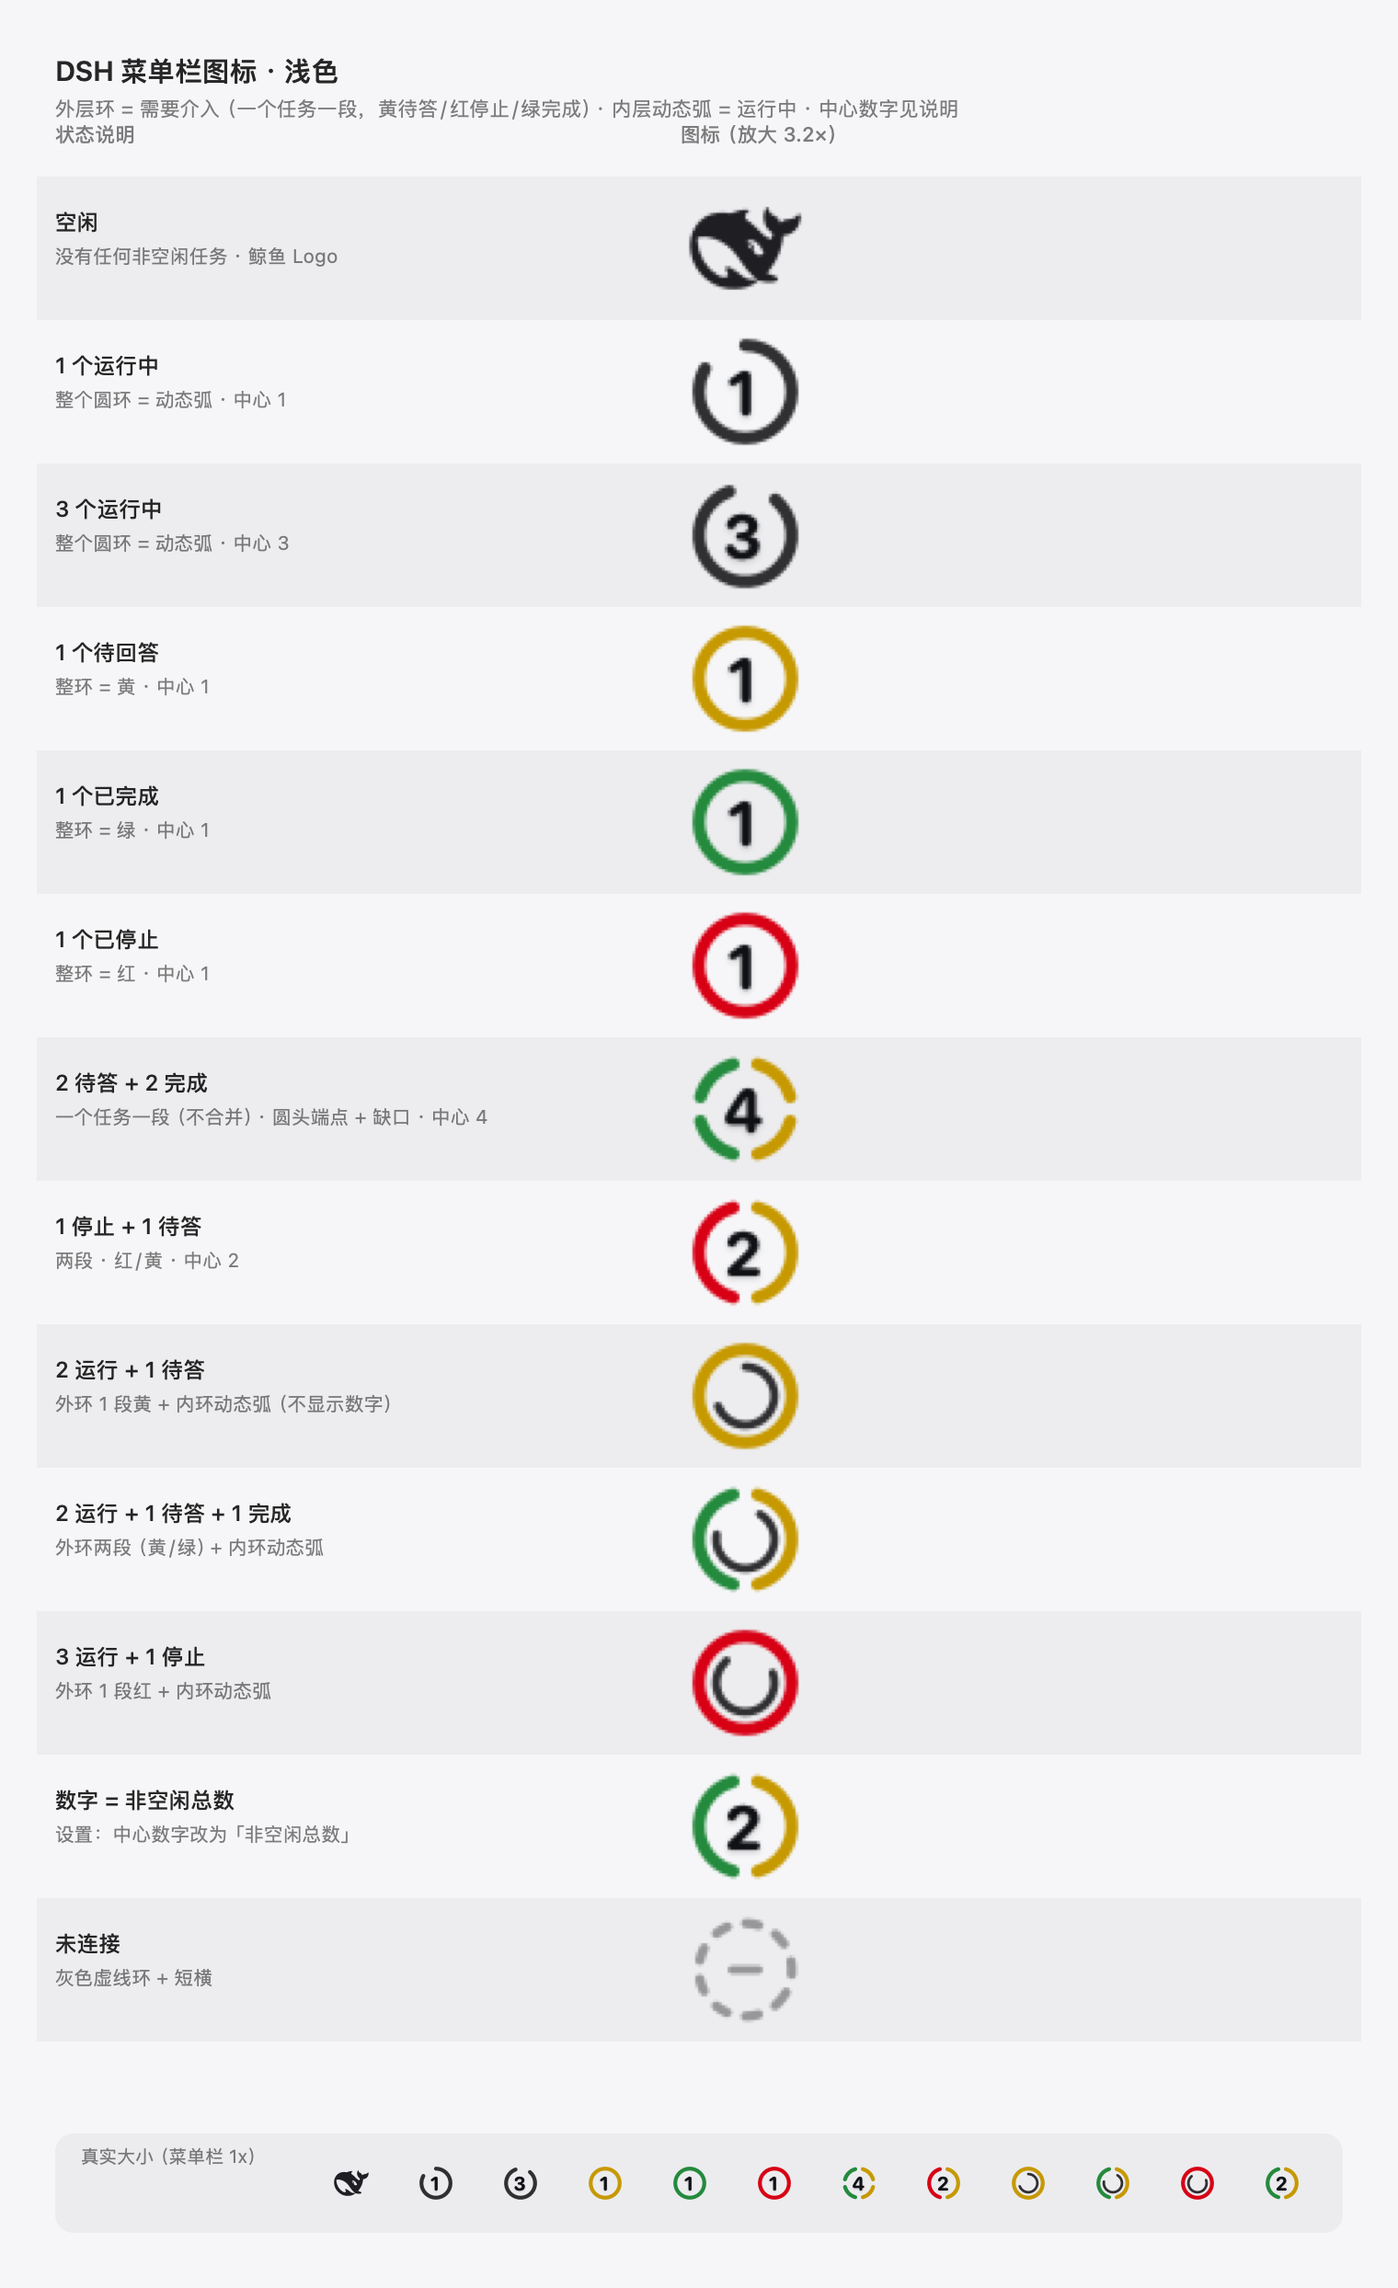
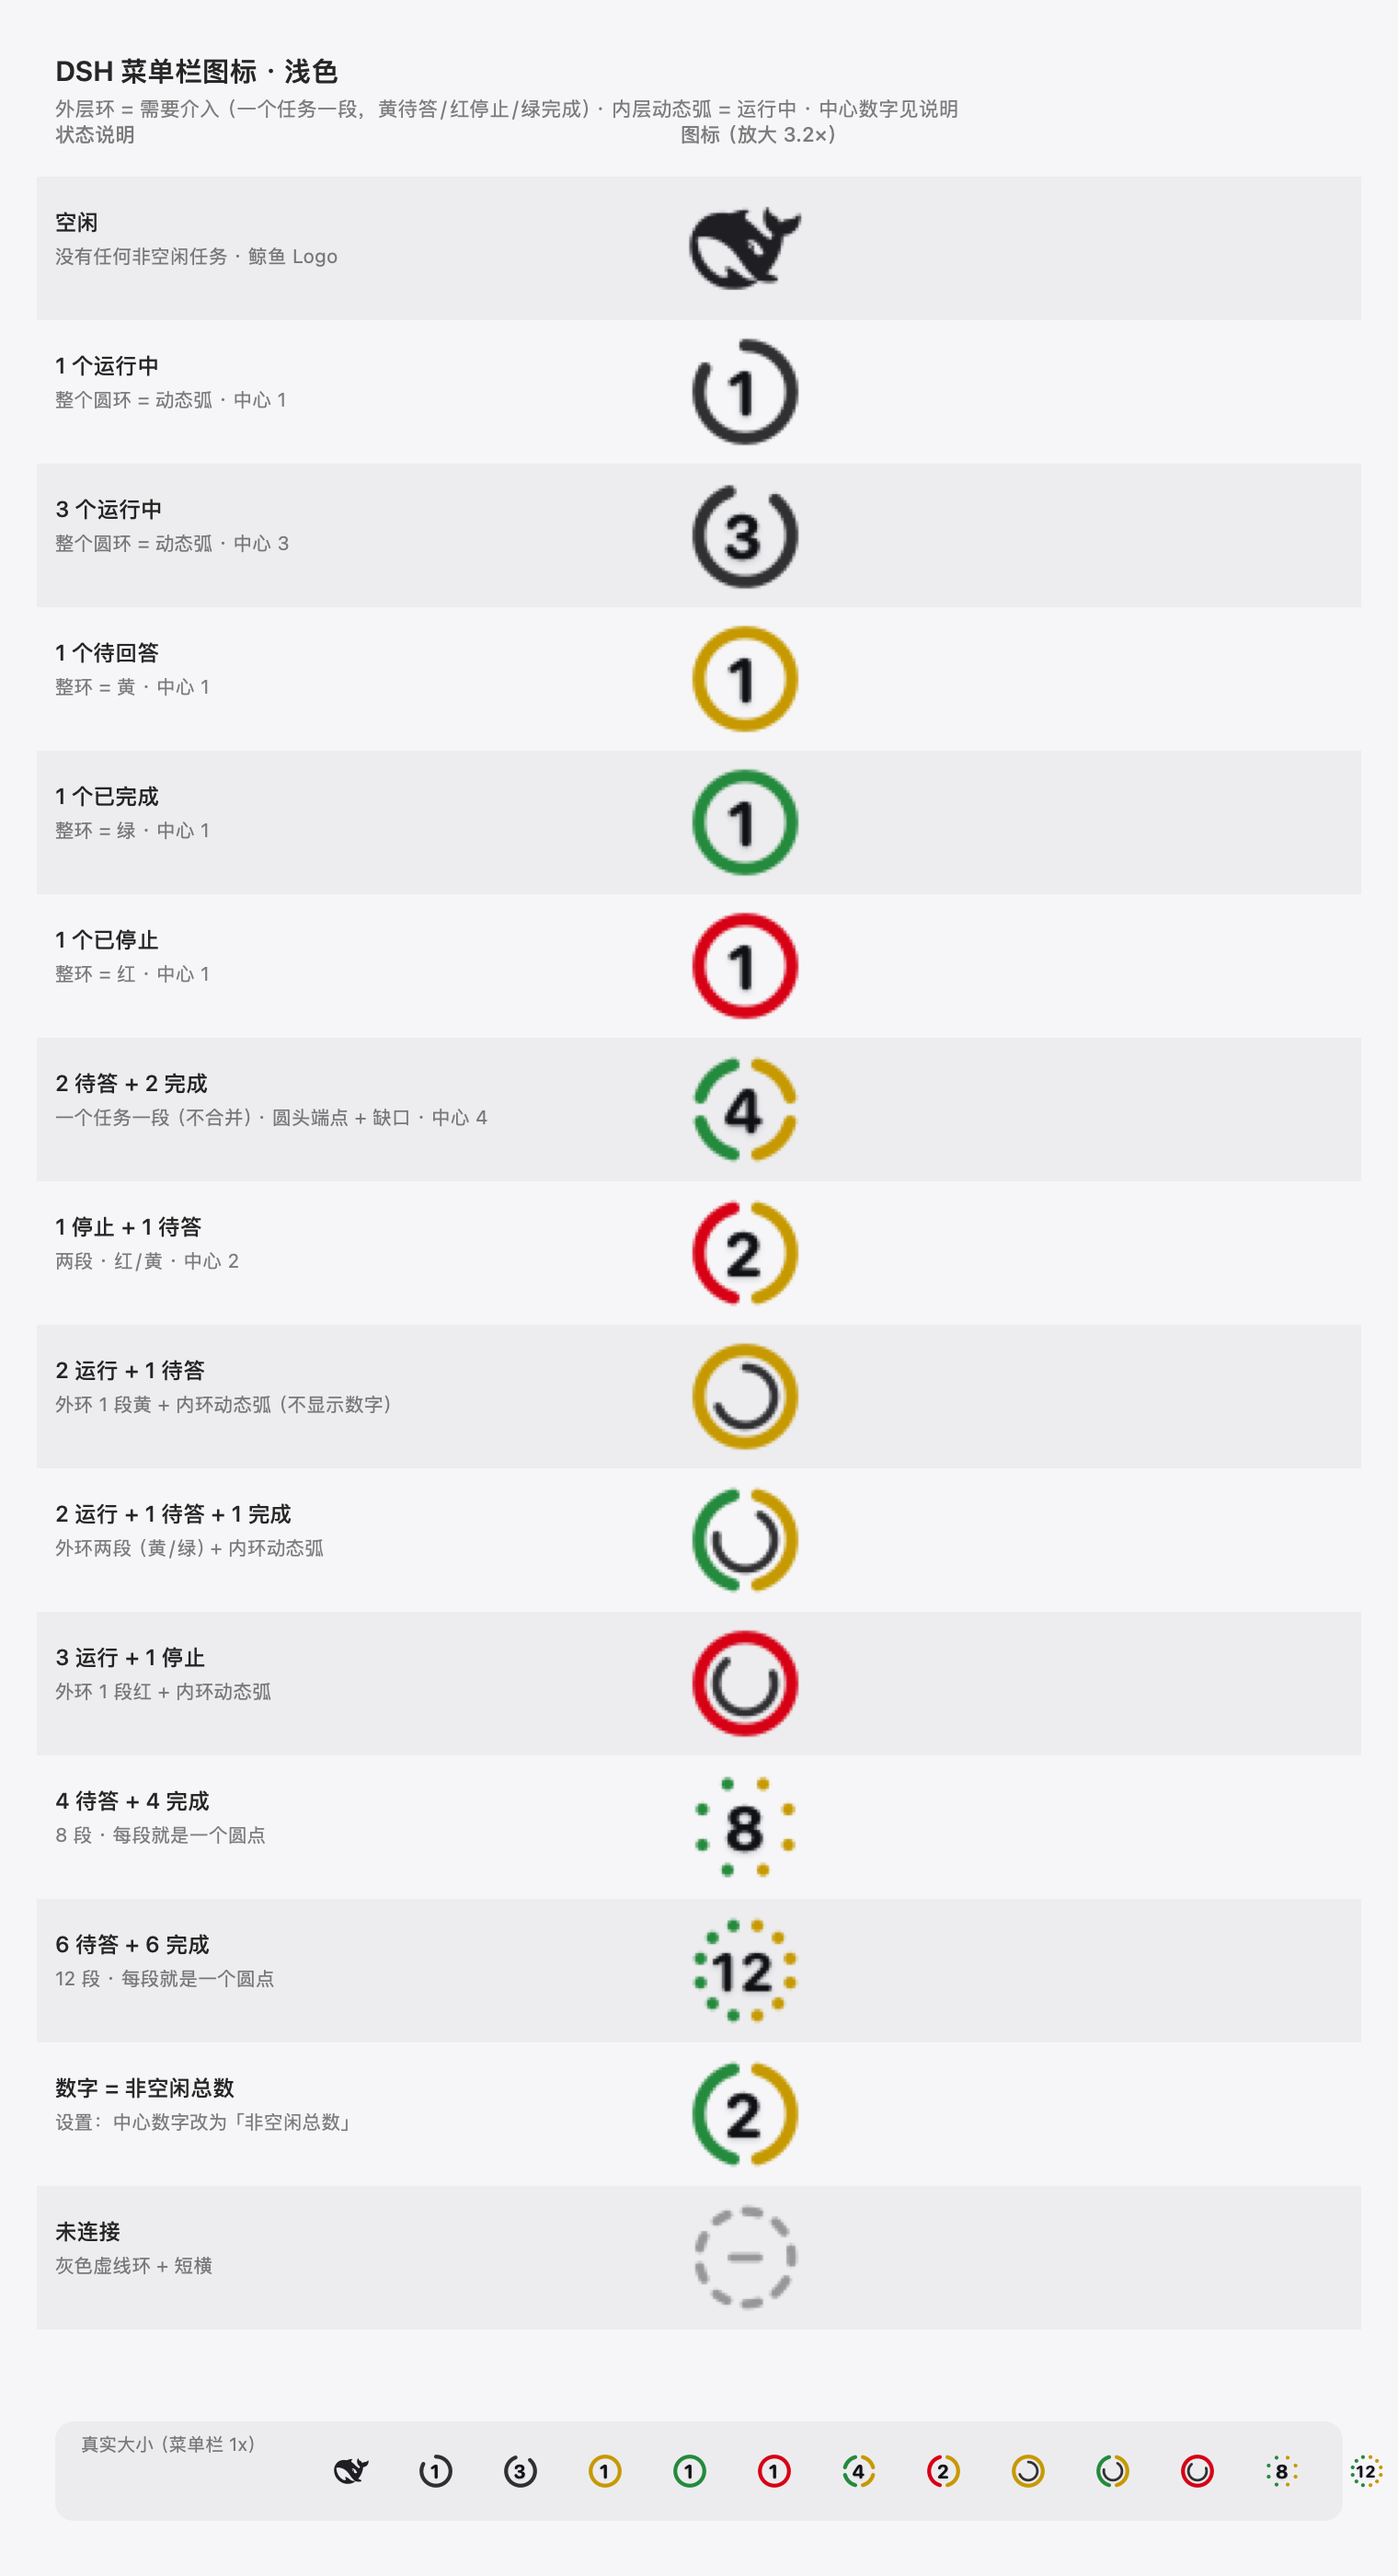
style(app): 外层环一个任务一段，段短于 26° 直接画圆点

diff --git a/app/Sources/DSHStatusBar/MenuBarIconRenderer.swift b/app/Sources/DSHStatusBar/MenuBarIconRenderer.swift
@@ -215,16 +215,33 @@ enum MenuBarIconRenderer {
         let gap = min(desired, step * 0.55)
         let sweep = step - gap
 
+        // 段短到一定角度就直接画圆点（最小视觉单位 = 圆点），避免变成一串细碎短划
+        let dotThreshold: CGFloat = 26
         for (index, color) in colors.enumerated() {
             let start = 90.0 - CGFloat(index) * step - gap / 2
             let end = start - sweep
-            color.setStroke()
-            let arc = NSBezierPath()
-            arc.appendArc(withCenter: center, radius: outerRadius,
-                          startAngle: start, endAngle: end, clockwise: true)
-            arc.lineWidth = outerWidth
-            arc.lineCapStyle = .round
-            arc.stroke()
+            if sweep <= dotThreshold {
+                let midAngle = (start + end) / 2
+                let radians = midAngle * .pi / 180
+                let dotCenter = NSPoint(x: center.x + cos(radians) * outerRadius,
+                                        y: center.y + sin(radians) * outerRadius)
+                color.setFill()
+                let dot = NSBezierPath(ovalIn: NSRect(
+                    x: dotCenter.x - outerWidth / 2,
+                    y: dotCenter.y - outerWidth / 2,
+                    width: outerWidth,
+                    height: outerWidth
+                ))
+                dot.fill()
+            } else {
+                color.setStroke()
+                let arc = NSBezierPath()
+                arc.appendArc(withCenter: center, radius: outerRadius,
+                              startAngle: start, endAngle: end, clockwise: true)
+                arc.lineWidth = outerWidth
+                arc.lineCapStyle = .round
+                arc.stroke()
+            }
         }
     }
 

diff --git a/app/Sources/DSHStatusBar/PreviewRenderer.swift b/app/Sources/DSHStatusBar/PreviewRenderer.swift
@@ -57,6 +57,10 @@ enum PreviewRenderer {
          IconModel(statuses: [.waiting, .completed, .running, .running], animationPhase: 30)),
         ("3 运行 + 1 停止", "外环 1 段红 + 内环动态弧",
          IconModel(statuses: [.stopped, .running, .running, .running], animationPhase: 70)),
+        ("4 待答 + 4 完成", "8 段 · 每段就是一个圆点",
+         IconModel(statuses: Array(repeating: .waiting, count: 4) + Array(repeating: .completed, count: 4))),
+        ("6 待答 + 6 完成", "12 段 · 每段就是一个圆点",
+         IconModel(statuses: Array(repeating: .waiting, count: 6) + Array(repeating: .completed, count: 6))),
         ("数字 = 非空闲总数", "设置：中心数字改为「非空闲总数」",
          IconModel(statuses: [.waiting, .completed], numberMode: .nonIdle)),
         ("未连接", "灰色虚线环 + 短横", IconModel(statuses: [], connected: false)),

diff --git a/docs/app-design.md b/docs/app-design.md
@@ -37,7 +37,7 @@
 | 情况 | 圆环 | 中心 |
 | --- | --- | --- |
 | 空闲（没有任何非空闲任务） | 无环，纯白鲸鱼（浅色模式近黑） | 无 |
-| 有需要介入的任务 | 外层环按**一个任务一段**等分（圆头端点 + 段间缺口，不合并同色） | 关注数 |
+| 有需要介入的任务 | 外层环按**一个任务一段**等分（圆头端点 + 段间缺口，不合并同色）；段短于 26° 时直接画圆点 | 关注数 |
 | 只有运行中 | 外层动态旋转弧（中性色，300° 弧，1.8s/圈） | 运行数 |
 | 两者都有 | 外层渐变环 + 内层动态弧（半径 4.95、宽 1.4） | 不显示数字 |
 | 未连接 | 灰色虚线环 | 短横 |
@@ -90,7 +90,7 @@
 - **配色**：`Theme.swift` 统一系统强调色——待回答 `#F2B900`、运行中 `#0A84FF`、
   已完成 `#34C759`、已停止系统红；未连接中性灰。
 - **分隔线**：1px、约 7% 前景色；hover 仅 4–6% 前景色。
-- **图标**：外环一个任务一段、等分、圆头端点 + 段间缺口（任务多时每段自然缩成圆点）；
+- **图标**：外环一个任务一段、等分、圆头端点 + 段间缺口；**段长 ≤ 26° 时改画圆点**（约 8 个任务起全是点）；
   动态弧圆头端点；未连接为灰色虚线环 + 短横。
 - 说明：22pt 尺寸下黄/绿/红色相渐变会发脏（互补色混合），因此**不做色相渐变**，也不用同色合并。
 

diff --git a/README.md b/README.md
@@ -10,7 +10,7 @@
 - **App 图标**：与菜单栏空闲态同款的鲸鱼 glyph，**透明底、无圆角方块、主色 `#416EFB`**
   （构建时由 `WhaleLogo` 生成 `.icns`），避免和 DeepSeek Harness 官方图标混淆
 - **P0 已完成**：Swift 菜单栏 App 可用——**鲸鱼 + 双层环图标（v4）**：
-  - 外层彩色环 = 只需要你介入的任务（待回答黄 / 已停止红 / 已完成绿），一个任务一段、等分、圆头端点 + 缺口；
+  - 外层彩色环 = 只需要你介入的任务（待回答黄 / 已停止红 / 已完成绿），一个任务一段、等分、圆头端点 + 缺口；任务多时（约 8 个起）每段直接变成圆点；
   - 内层动态弧 = 有任务正在运行（中性色缓慢旋转，不再和蓝色壁纸撞色）；
   - 只有运行中时，动态弧直接用外环大小 + 中心显示运行数；双层时只显示两个环、不显示数字；
   - 完全空闲时显示 DeepSeek 鲸鱼 Logo。、面板、**设置页**（自定义显示状态 / 隐藏项目 / 中心数字 / 段数上限 / 通知）、
